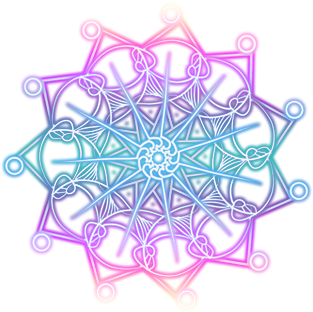
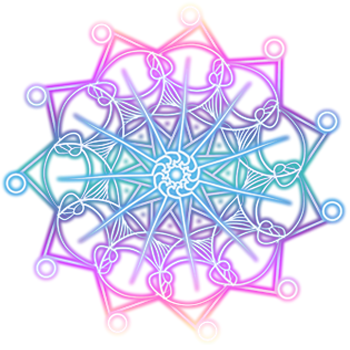
Various Changes
-Rescaled the Title screen to fit new resolution.
-Added title buttons.
-Fixed dialogue on intro and initial cutscene to better fit the new
resolution.
-Rescaled all the lighting effects to fit the new resolution of game.

diff --git a/js/plugins.js b/js/plugins.js
@@ -9,7 +9,7 @@ var $plugins =
 {"name":"YEP_DisableAutoShadowExt","status":true,"description":"v1.00 Disable autoshadows for your game, specific maps, or even\nspecific tilesets.","parameters":{"DefaultShowShadows":"true"}},
 {"name":"YEP_SaveCore","status":true,"description":"v1.06 Alter the save menu for a more aesthetic layout\nand take control over the file system's rules.","parameters":{"---General---":"","Max Files":"10","Saved Icon":"231","Empty Icon":"230","Return After Saving":"false","Auto New Index":"true","---Action Window---":"","Load Command":"Load","Save Command":"Save","Delete Command":"Delete","---Help Window---":"","Select Help":"Please select a file slot.","Load Help":"Loads the data from the saved game.","Save Help":"Saves the current progress in your game.","Delete Help":"Deletes all data from this save file.","---Delete---":"","Delete Filename":"Damage2","Delete Volume":"100","Delete Pitch":"150","Delete Pan":"0","---Info Window---":"","Show Game Title":"true","Invalid Game Text":"This save is for a different game.","Empty Game Text":"Empty","Map Display Name":"true","Party Display":"2","Party Y Position":"this.lineHeight() + Window_Base._faceHeight","Show Actor Names":"true","Name Font Size":"20","Show Actor Level":"true","Level Font Size":"20","Level Format":"\\c[16]%1 \\c[0]%3","Data Font Size":"20","Data Column 1":"empty, playtime, save count, gold count","Data Column 2":"location, variable 1, variable 2, variable 3","Data Column 3":"empty, variable 4, variable 5, variable 6","Data Column 4":"","---Vocabulary---":"","Map Location":"","Playtime":"Playtime:","Save Count":"Total Saves:","Gold Count":"%1:","---Technical---":"","Save Mode":"auto","Local Config":"config.rpgsave","Local Global":"global.rpgsave","Local Save":"file%1.rpgsave","Web Config":"RPG %1 Config","Web Global":"RPG %1 Global","Web Save":"RPG %1 File%2","---Confirmation---":"","Load Confirmation":"true","Load Text":"Do you wish to load this save file?","Save Confirmation":"true","Save Text":"Do you wish to overwrite this save file?","Delete Confirmation":"true","Delete Text":"Do you wish to delete this save file?","Confirm Yes":"Yes","Confirm No":"No"}},
 {"name":"YEP_X_Autosave","status":true,"description":"v1.00 (Req YEP_SaveCore.js) Adds Autosave functionality to your\nRPG Maker game.","parameters":{"---Automatic---":"","OnMapLoad":"true","OnMainMenu":"false","---Option Menu---":"","Show Option":"true","Option Name":"Autosave","Default":"true","---Visual---":"","ShowAutosave":"true","AutosaveMsgSave":"\\i[83]Autosave Complete!","AutosaveMsgLoad":"\\i[83]Autosave Loaded!","MsgGradient1":"rgba(0, 0, 0, 0)","MsgGradient2":"rgba(0, 0, 0, 0.6)","MsgGradientCode":"\"var textWidth = this.textWidthEx(this.message());\\nvar half = this.textPadding() + Math.ceil(textWidth / 2);\\nvar height = this.lineHeight();\\nvar color1 = Yanfly.Param.AutosaveMsgColor1;\\nvar color2 = Yanfly.Param.AutosaveMsgColor2;\\nthis.contents.gradientFillRect(0, 0, half, height, color1, color2);\\nthis.contents.gradientFillRect(half, 0, this.width - half, height, color2, color1);\"","MsgX":"Graphics.boxWidth - 270","MsgY":"Graphics.boxHeight - this.fittingHeight(1) * 2","MsgDuration":"120","FadeSpeed":"16"}},
-{"name":"TerraxLighting","status":true,"description":"v1.2.9 Creates an extra layer that darkens a map and adds lightsources!","parameters":{"Player radius":"300","Reset Lights":"No","Save DaynightHours":"5","Save DaynightMinutes":"6","Save DaynightSeconds":"7","Flashlight offset":"0","Screensize X":"816","Screensize Y":"624","Kill Switch":"No"}},
+{"name":"TerraxLighting","status":true,"description":"v1.2.9 Creates an extra layer that darkens a map and adds lightsources!","parameters":{"Player radius":"300","Reset Lights":"No","Save DaynightHours":"5","Save DaynightMinutes":"6","Save DaynightSeconds":"7","Flashlight offset":"0","Screensize X":"1280","Screensize Y":"720","Kill Switch":"No"}},
 {"name":"AABSE_ParticleSystem","status":false,"description":"Particle System for Alpha ABS","parameters":{}},
 {"name":"Cavefog","status":true,"description":"display fogs as XP fog","parameters":{}},
 {"name":"VPS - Dynamic Weather System","status":true,"description":"v1.0 An extended weather system for RMMV with different effects and behaviors.","parameters":{"- WEATHER CUSTOMIZATION -":"","AutumnLeafSpeedX":"0","AutumnLeafSpeedY":"1","AutumnLeafOpacity":"1","SakuraSpeedX":"0","SakuraSpeedY":"1","SakuraOpacity":"1","BlowingSakuraSpeedX":"3","BlowingSakuraSpeedY":"3","BlowingSakuraOpacity":"1","CloverSpeedX":"0","CloverSpeedY":"1","CloverOpacity":"1","BlowingCloverSpeedX":"3","BlowingCloverSpeedY":"0","BlowingCloverOpacity":"1","BlowingAutumnSpeedX":"10","BlowingAutumnSpeedY":"0","BlowingAutumnOpacity":"1","-STORM CONTROL-":"","LightningDuration":"300000","LightningCounter":"10","ThunderclapAudio":"Thunder1","ThunderclapVolume":"100","ThunderclapPitch":"100","ThunderclapPan":"0","-WEATHER RESOURCES-":"","SnowballImage":"snowball","FlakeImage":"flake","BlizzardImage":"blizzard","IceImage":"ice","GlitterImage":"glitter","FireImage":"fire","LightImage":"light","MeteorImage":"meteor","LeafBladeImage":"leafblade","PollenImage":"pollen","FairydustImage":"fairydust","LeafImage":"leaf","AutumnLeafImage":"autumnleaf","SpringLeafImage":"springleaf","CloverImage":"clover","SakuraImage":"sakura","BubbleImage":"bubble","WingImage":"wing","WaterImage":"water"}},
@@ -29,9 +29,9 @@ var $plugins =
 {"name":"YEP_SlipperyTiles","status":true,"description":"v1.05 You can create slippery tiles by marking them with\neither a terrain tag or a region number.","parameters":{"Slippery Frame":"2","Slippery Region":"1","Slippery Speed":"0"}},
 {"name":"MOG_TitleHimawari","status":false,"description":"(v1.0) Cena de titulo animado com personagens.","parameters":{"Char Number":"4","Char X-Axis":"0","Char Y-Axis":"0","Flower X-Axis":"0","Flower Y-Axis":"0","Rotation":"true","Rotation Time":"300"}},
 {"name":"MOG_TitleLayers","status":true,"description":"(v1.1 *) Adiciona multiplas camadas na tela de título.","parameters":{"-> Main <<<<<<<<<<<<<<<<<<<<<<<":"","Screen Movement":"false","Screen Move Speed":"1","Screen Move Duration":"160","":"","-> Layer 1 <<<<<<<<<<<<<<<<<<<<<<<":"","L1 Visible":"true","L1 File Name":"Layer1","L1 X-axis / Scroll":"0","L1 Y-axis / Scroll":"0","L1 Blend Mode":"0","L1 Transition Time":"0","L1 Animated":"true","L1 Frames":"1","L1 Animation Speed":"20","-> Layer 2 <<<<<<<<<<<<<<<<<<<<<<<":"","L2 Visible":"false","L2 File Name":"Layer2","L2 X-axis / Scroll":"0.5","L2 Y-axis / Scroll":"0","L2 Blend Mode":"0","L2 Transition Time":"0","L2 Animated":"false","L2 Frames":"4","L2 Animation Speed":"20","-> Layer 3 <<<<<<<<<<<<<<<<<<<<<<<":"","L3 Visible":"true","L3 File Name":"Layer3","L3 X-axis / Scroll":"0","L3 Y-axis / Scroll":"0","L3 Blend Mode":"0","L3 Transition Time":"0.01","L3 Animated":"false","L3 Frames":"4","L3 Animation Speed":"20","-> Layer 4 <<<<<<<<<<<<<<<<<<<<<<<":"","L4 Visible":"true","L4 File Name":"Layer4","L4 X-axis / Scroll":"0","L4 Y-axis / Scroll":"0","L4 Blend Mode":"0","L4 Transition Time":"0.2","L4 Animated":"false","L4 Frames":"4","L4 Animation Speed":"20","-> Layer 5 <<<<<<<<<<<<<<<<<<<<<<<":"","L5 Visible":"false","L5 File Name":"Layer5","L5 X-axis / Scroll":"1.1","L5 Y-axis / Scroll":"0","L5 Blend Mode":"0","L5 Transition Time":"0","L5 Animated":"false","L5 Frames":"4","L5 Animation Speed":"20","-> Layer 6 <<<<<<<<<<<<<<<<<<<<<<<":"","L6 Visible":"false","L6 File Name":"Layer6","L6 X-axis / Scroll":"1.3","L6 Y-axis / Scroll":"0","L6 Blend Mode":"0","L6 Transition Time":"0","L6 Animated":"false","L6 Frames":"4","L6 Animation Speed":"20","-> Layer 7 <<<<<<<<<<<<<<<<<<<<<<<":"","L7 Visible":"false","L7 File Name":"Layer7","L7 X-axis / Scroll":"1.5","L7 Y-axis / Scroll":"0","L7 Blend Mode":"0","L7 Transition Time":"0","L7 Animated":"false","L7 Frames":"4","L7 Animation Speed":"20","-> Layer 8 <<<<<<<<<<<<<<<<<<<<<<<":"","L8 Visible":"false","L8 File Name":"Layer8","L8 X-axis / Scroll":"1.7","L8 Y-axis / Scroll":"0","L8 Blend Mode":"0","L8 Transition Time":"0","L8 Animated":"false","L8 Frames":"4","L8 Animation Speed":"20","-> Layer 9 <<<<<<<<<<<<<<<<<<<<<<<":"","L9 Visible":"false","L9 File Name":"Layer9","L9 X-axis / Scroll":"1.9","L9 Y-axis / Scroll":"0","L9 Blend Mode":"0","L9 Transition Time":"0","L9 Animated":"false","L9 Frames":"4","L9 Animation Speed":"20","-> Layer 10 <<<<<<<<<<<<<<<<<<<<<<<":"","L10 Visible":"false","L10 File Name":"Layer10","L10 X-axis / Scroll":"2.1","L10 Y-axis / Scroll":"0","L10 Blend Mode":"0","L10 Transition Time":"0","L10 Animated":"false","L10 Frames":"4","L10 Animation Speed":"20"}},
-{"name":"MOG_TitleMagicCircles","status":true,"description":"(v1.1 *) Adiciona círculos mágicos na tela de título.","parameters":{"-> Magic Circle 1 <<<<<<<<<<<<<<<<<<<<<<<":"","Circle 1 Visible":"true","Circle 1 File Name":"MCircle2","Circle 1 Z-Index":"10","Circle 1 X-Axis":"820","Circle 1 Y-Axis":"680","Circle 1 Rotation":"0.01","Circle 1 Blend Mode":"1","Circle 1 Transition Time":"0","Circle 1 Pulse Mode":"2","":"","-> Magic Circle 2 <<<<<<<<<<<<<<<<<<<<<<<":"","Circle 2 Visible":"false","Circle 2 File Name":"MCircle2","Circle 2 Z-Index":"11","Circle 2 X-Axis":"790","Circle 2 Y-Axis":"650","Circle 2 Rotation":"-0.01","Circle 2 Blend Mode":"0","Circle 2 Transition Time":"0","Circle 2 Pulse Mode":"0","-> Magic Circle 3 <<<<<<<<<<<<<<<<<<<<<<<":"","Circle 3 Visible":"true","Circle 3 File Name":"MCircle3","Circle 3 Z-Index":"12","Circle 3 X-Axis":"820","Circle 3 Y-Axis":"680","Circle 3 Rotation":"0.01","Circle 3 Blend Mode":"1","Circle 3 Transition Time":"0","Circle 3 Pulse Mode":"0","-> Magic Circle 4 <<<<<<<<<<<<<<<<<<<<<<<":"","Circle 4 Visible":"true","Circle 4 File Name":"MCircle4","Circle 4 Z-Index":"12","Circle 4 X-Axis":"410","Circle 4 Y-Axis":"155","Circle 4 Rotation":"0.01","Circle 4 Blend Mode":"1","Circle 4 Transition Time":"50","Circle 4 Pulse Mode":"0","-> Magic Circle 5 <<<<<<<<<<<<<<<<<<<<<<<":"","Circle 5 Visible":"false","Circle 5 File Name":"MCircle5","Circle 5 Z-Index":"14","Circle 5 X-Axis":"400","Circle 5 Y-Axis":"400","Circle 5 Rotation":"0.01","Circle 5 Blend Mode":"1","Circle 5 Transition Time":"0","Circle 5 Pulse Mode":"0","-> Magic Circle 6 <<<<<<<<<<<<<<<<<<<<<<<":"","Circle 6 Visible":"false","Circle 6 File Name":"MCircle6","Circle 6 Z-Index":"15","Circle 6 X-Axis":"500","Circle 6 Y-Axis":"500","Circle 6 Rotation":"0.01","Circle 6 Blend Mode":"1","Circle 6 Transition Time":"0","Circle 6 Pulse Mode":"0","-> Magic Circle 7 <<<<<<<<<<<<<<<<<<<<<<<":"","Circle 7 Visible":"false","Circle 7 File Name":"MCircle7","Circle 7 Z-Index":"16","Circle 7 X-Axis":"550","Circle 7 Y-Axis":"550","Circle 7 Rotation":"0.01","Circle 7 Blend Mode":"1","Circle 7 Transition Time":"0","Circle 7 Pulse Mode":"0","-> Magic Circle 8 <<<<<<<<<<<<<<<<<<<<<<<":"","Circle 8 Visible":"false","Circle 8 File Name":"MCircle8","Circle 8 Z-Index":"17","Circle 8 X-Axis":"600","Circle 8 Y-Axis":"600","Circle 8 Rotation":"0.01","Circle 8 Blend Mode":"1","Circle 8 Transition Time":"0","Circle 8 Pulse Mode":"0","-> Magic Circle 9 <<<<<<<<<<<<<<<<<<<<<<<":"","Circle 9 Visible":"false","Circle 9 File Name":"MCircle9","Circle 9 Z-Index":"18","Circle 9 X-Axis":"620","Circle 9 Y-Axis":"620","Circle 9 Rotation":"0.01","Circle 9 Blend Mode":"1","Circle 9 Transition Time":"0","Circle 9 Pulse Mode":"0","-> Magic Circle 10 <<<<<<<<<<<<<<<<<<<<<<<":"","Circle 10 Visible":"false","Circle 10 File Name":"MCircle10","Circle 10 Z-Index":"19","Circle 10 X-Axis":"650","Circle 10 Y-Axis":"600","Circle 10 Rotation":"0.01","Circle 10 Blend Mode":"1","Circle 10 Transition Time":"0","Circle 10 Pulse Mode":"0"}},
-{"name":"MOG_TitleParticles","status":true,"description":"(v2.1 *) Adiciona partículas na tela de título.","parameters":{"-> Particles 1 <<<<<<<<<<<<<<<<<<<<<<<":"","P1 Visible":"true","P1 File Name":"Particles","P1 Amount":"25","P1 Z Index":"20","P1 X Speed":"-10","P1 Y Speed":"-1","P1 Rotation Speed":"0.02","P1 Blend Mode":"1","P1 Anchor":"0","P1 Leaf Mode":"false","P1 Transition Time":"0","":"","-> Particles 2 <<<<<<<<<<<<<<<<<<<<<<<":"","P2 Visible":"true","P2 File Name":"Particles2","P2 Amount":"5","P2 Z Index":"21","P2 X Speed":"2","P2 Y Speed":"2","P2 Rotation Speed":"0.01","P2 Blend Mode":"0","P2 Anchor":"0","P2 Leaf Mode":"false","P2 Transition Time":"0","-> Particles 3 <<<<<<<<<<<<<<<<<<<<<<<":"","P3 Visible":"true","P3 File Name":"Particles3","P3 Amount":"10","P3 Z Index":"22","P3 X Speed":"0.5","P3 Y Speed":"0.5","P3 Rotation Speed":"0.006","P3 Blend Mode":"0","P3 Anchor":"0","P3 Leaf Mode":"true","P3 Transition Time":"0","-> Particles 4 <<<<<<<<<<<<<<<<<<<<<<<":"","P4 Visible":"false","P4 File Name":"Particles4","P4 Amount":"25","P4 Z Index":"23","P4 X Speed":"2","P4 Y Speed":"0.3","P4 Rotation Speed":"0.3","P4 Blend Mode":"1","P4 Anchor":"0","P4 Leaf Mode":"true","P4 Transition Time":"0","-> Particles 5 <<<<<<<<<<<<<<<<<<<<<<<":"","P5 Visible":"false","P5 File Name":"Particles5","P5 Amount":"25","P5 Z Index":"24","P5 X Speed":"4","P5 Y Speed":"0","P5 Rotation Speed":"0","P5 Blend Mode":"1","P5 Anchor":"0","P5 Leaf Mode":"false","P5 Transition Time":"0","-> Particles 6 <<<<<<<<<<<<<<<<<<<<<<<":"","P6 Visible":"false","P6 File Name":"Particles6","P6 Amount":"25","P6 Z Index":"25","P6 X Speed":"4","P6 Y Speed":"0","P6 Rotation Speed":"0","P6 Blend Mode":"1","P6 Anchor":"0","P6 Leaf Mode":"false","P6 Transition Time":"0"}},
-{"name":"MOG_TitlePictureCom","status":true,"description":"(v1.6 *) Adiciona comandos em imagens no lugar da janela.","parameters":{"-> Main <<<<<<<<<<<<<<<<<<<<<<<":"","Animation Mode":"2","Left & Right Input":"true","Com Fade-In Duration":"13","Slide X-Axis":"-100","Slide Y-Axis":"0","":"","-> Smart Background  <<<<<<<<<<<<<<<<<<<<<<<":"","Smart Background":"true","Background X-Axis":"0","Background Y-Axis":"0","Background Fade-In Duration":"90","-> Title Sprite <<<<<<<<<<<<<<<<<<<<<<<":"","Title Sprite":"true","Title Sprite X-Axis":"410","Title Sprite Y-Axis":"300","Fade-In Duration":"40","Zoom Effect":"true","Zoom Speed":"40","-> Cursor <<<<<<<<<<<<<<<<<<<<<<<":"","Cursor X-Axis":"0","Cursor Y-Axis":"18","Cursor Visible":"true","Cursor Wave Animation":"true","Cursor Rotation Animation":"false","Cursor Rotation Speed":"0.05","-> Commands <<<<<<<<<<<<<<<<<<<<<<<":"","Command Pos 1":"50,450","Command Pos 2":"50,490","Command Pos 3":"50,530","Command Pos 4":"670,550","Command Pos 5":"50 500","Command Pos 6":"345,530","Command Pos 7":"0,192","Command Pos 8":"0,224","Command Pos 9":"0,256","Command Pos 10":"0,288"}},
+{"name":"MOG_TitleMagicCircles","status":true,"description":"(v1.1 *) Adiciona círculos mágicos na tela de título.","parameters":{"-> Magic Circle 1 <<<<<<<<<<<<<<<<<<<<<<<":"","Circle 1 Visible":"true","Circle 1 File Name":"MCircle2","Circle 1 Z-Index":"10","Circle 1 X-Axis":"1200","Circle 1 Y-Axis":"720","Circle 1 Rotation":"0.01","Circle 1 Blend Mode":"1","Circle 1 Transition Time":"0","Circle 1 Pulse Mode":"2","":"","-> Magic Circle 2 <<<<<<<<<<<<<<<<<<<<<<<":"","Circle 2 Visible":"false","Circle 2 File Name":"MCircle2","Circle 2 Z-Index":"11","Circle 2 X-Axis":"790","Circle 2 Y-Axis":"650","Circle 2 Rotation":"-0.01","Circle 2 Blend Mode":"0","Circle 2 Transition Time":"0","Circle 2 Pulse Mode":"0","-> Magic Circle 3 <<<<<<<<<<<<<<<<<<<<<<<":"","Circle 3 Visible":"true","Circle 3 File Name":"MCircle3","Circle 3 Z-Index":"12","Circle 3 X-Axis":"1200","Circle 3 Y-Axis":"720","Circle 3 Rotation":"0.01","Circle 3 Blend Mode":"1","Circle 3 Transition Time":"0","Circle 3 Pulse Mode":"0","-> Magic Circle 4 <<<<<<<<<<<<<<<<<<<<<<<":"","Circle 4 Visible":"true","Circle 4 File Name":"MCircle4","Circle 4 Z-Index":"12","Circle 4 X-Axis":"670","Circle 4 Y-Axis":"170","Circle 4 Rotation":"0.01","Circle 4 Blend Mode":"1","Circle 4 Transition Time":"50","Circle 4 Pulse Mode":"0","-> Magic Circle 5 <<<<<<<<<<<<<<<<<<<<<<<":"","Circle 5 Visible":"false","Circle 5 File Name":"MCircle5","Circle 5 Z-Index":"14","Circle 5 X-Axis":"400","Circle 5 Y-Axis":"400","Circle 5 Rotation":"0.01","Circle 5 Blend Mode":"1","Circle 5 Transition Time":"0","Circle 5 Pulse Mode":"0","-> Magic Circle 6 <<<<<<<<<<<<<<<<<<<<<<<":"","Circle 6 Visible":"false","Circle 6 File Name":"MCircle6","Circle 6 Z-Index":"15","Circle 6 X-Axis":"500","Circle 6 Y-Axis":"500","Circle 6 Rotation":"0.01","Circle 6 Blend Mode":"1","Circle 6 Transition Time":"0","Circle 6 Pulse Mode":"0","-> Magic Circle 7 <<<<<<<<<<<<<<<<<<<<<<<":"","Circle 7 Visible":"false","Circle 7 File Name":"MCircle7","Circle 7 Z-Index":"16","Circle 7 X-Axis":"550","Circle 7 Y-Axis":"550","Circle 7 Rotation":"0.01","Circle 7 Blend Mode":"1","Circle 7 Transition Time":"0","Circle 7 Pulse Mode":"0","-> Magic Circle 8 <<<<<<<<<<<<<<<<<<<<<<<":"","Circle 8 Visible":"false","Circle 8 File Name":"MCircle8","Circle 8 Z-Index":"17","Circle 8 X-Axis":"600","Circle 8 Y-Axis":"600","Circle 8 Rotation":"0.01","Circle 8 Blend Mode":"1","Circle 8 Transition Time":"0","Circle 8 Pulse Mode":"0","-> Magic Circle 9 <<<<<<<<<<<<<<<<<<<<<<<":"","Circle 9 Visible":"false","Circle 9 File Name":"MCircle9","Circle 9 Z-Index":"18","Circle 9 X-Axis":"620","Circle 9 Y-Axis":"620","Circle 9 Rotation":"0.01","Circle 9 Blend Mode":"1","Circle 9 Transition Time":"0","Circle 9 Pulse Mode":"0","-> Magic Circle 10 <<<<<<<<<<<<<<<<<<<<<<<":"","Circle 10 Visible":"false","Circle 10 File Name":"MCircle10","Circle 10 Z-Index":"19","Circle 10 X-Axis":"650","Circle 10 Y-Axis":"600","Circle 10 Rotation":"0.01","Circle 10 Blend Mode":"1","Circle 10 Transition Time":"0","Circle 10 Pulse Mode":"0"}},
+{"name":"MOG_TitleParticles","status":true,"description":"(v2.1 *) Adiciona partículas na tela de título.","parameters":{"-> Particles 1 <<<<<<<<<<<<<<<<<<<<<<<":"","P1 Visible":"true","P1 File Name":"Particles","P1 Amount":"50","P1 Z Index":"20","P1 X Speed":"-10","P1 Y Speed":"-1","P1 Rotation Speed":"0.02","P1 Blend Mode":"1","P1 Anchor":"0","P1 Leaf Mode":"false","P1 Transition Time":"0","":"","-> Particles 2 <<<<<<<<<<<<<<<<<<<<<<<":"","P2 Visible":"true","P2 File Name":"Particles2","P2 Amount":"15","P2 Z Index":"21","P2 X Speed":"2","P2 Y Speed":"2","P2 Rotation Speed":"0.01","P2 Blend Mode":"0","P2 Anchor":"0","P2 Leaf Mode":"false","P2 Transition Time":"0","-> Particles 3 <<<<<<<<<<<<<<<<<<<<<<<":"","P3 Visible":"true","P3 File Name":"Particles3","P3 Amount":"25","P3 Z Index":"22","P3 X Speed":"0.5","P3 Y Speed":"0.5","P3 Rotation Speed":"0.006","P3 Blend Mode":"0","P3 Anchor":"0","P3 Leaf Mode":"true","P3 Transition Time":"0","-> Particles 4 <<<<<<<<<<<<<<<<<<<<<<<":"","P4 Visible":"false","P4 File Name":"Particles4","P4 Amount":"25","P4 Z Index":"23","P4 X Speed":"2","P4 Y Speed":"0.3","P4 Rotation Speed":"0.3","P4 Blend Mode":"1","P4 Anchor":"0","P4 Leaf Mode":"true","P4 Transition Time":"0","-> Particles 5 <<<<<<<<<<<<<<<<<<<<<<<":"","P5 Visible":"false","P5 File Name":"Particles5","P5 Amount":"25","P5 Z Index":"24","P5 X Speed":"4","P5 Y Speed":"0","P5 Rotation Speed":"0","P5 Blend Mode":"1","P5 Anchor":"0","P5 Leaf Mode":"false","P5 Transition Time":"0","-> Particles 6 <<<<<<<<<<<<<<<<<<<<<<<":"","P6 Visible":"false","P6 File Name":"Particles6","P6 Amount":"25","P6 Z Index":"25","P6 X Speed":"4","P6 Y Speed":"0","P6 Rotation Speed":"0","P6 Blend Mode":"1","P6 Anchor":"0","P6 Leaf Mode":"false","P6 Transition Time":"0"}},
+{"name":"MOG_TitlePictureCom","status":true,"description":"(v1.6 *) Adiciona comandos em imagens no lugar da janela.","parameters":{"-> Main <<<<<<<<<<<<<<<<<<<<<<<":"","Animation Mode":"2","Left & Right Input":"true","Com Fade-In Duration":"13","Slide X-Axis":"-100","Slide Y-Axis":"0","":"","-> Smart Background  <<<<<<<<<<<<<<<<<<<<<<<":"","Smart Background":"true","Background X-Axis":"0","Background Y-Axis":"0","Background Fade-In Duration":"90","-> Title Sprite <<<<<<<<<<<<<<<<<<<<<<<":"","Title Sprite":"true","Title Sprite X-Axis":"640","Title Sprite Y-Axis":"360","Fade-In Duration":"40","Zoom Effect":"true","Zoom Speed":"40","-> Cursor <<<<<<<<<<<<<<<<<<<<<<<":"","Cursor X-Axis":"2","Cursor Y-Axis":"53","Cursor Visible":"true","Cursor Wave Animation":"true","Cursor Rotation Animation":"false","Cursor Rotation Speed":"0.05","-> Commands <<<<<<<<<<<<<<<<<<<<<<<":"","Command Pos 1":"60,440","Command Pos 2":"60,500","Command Pos 3":"60,570","Command Pos 4":"670,550","Command Pos 5":"50 500","Command Pos 6":"345,530","Command Pos 7":"0,192","Command Pos 8":"0,224","Command Pos 9":"0,256","Command Pos 10":"0,288"}},
 {"name":"MOG_TitleSplashScreen","status":true,"description":"(v1.1 *) Adiciona logos antes da tela de título.","parameters":{"Number of Logos":"1","Slash Duration":"60","Splash Fade Duration":"2","Full Screen Mode":"false"}},
 {"name":"YEP_RegionEvents","status":true,"description":"v1.03 Make it so that whenever players step on certain\r\nRegion ID's, the game will play certain common events.","parameters":{"---Regions 1 to 20---":"","Region 1":"0","Region 2":"0","Region 3":"0","Region 4":"0","Region 5":"0","Region 6":"0","Region 7":"0","Region 8":"0","Region 9":"0","Region 10":"0","Region 11":"0","Region 12":"0","Region 13":"0","Region 14":"0","Region 15":"0","Region 16":"0","Region 17":"0","Region 18":"0","Region 19":"0","Region 20":"0","---Regions 21 to 40---":"","Region 21":"14","Region 22":"15","Region 23":"0","Region 24":"0","Region 25":"0","Region 26":"0","Region 27":"0","Region 28":"0","Region 29":"0","Region 30":"0","Region 31":"0","Region 32":"0","Region 33":"0","Region 34":"0","Region 35":"0","Region 36":"0","Region 37":"0","Region 38":"0","Region 39":"0","Region 40":"0","---Regions 41 to 60---":"","Region 41":"0","Region 42":"0","Region 43":"0","Region 44":"0","Region 45":"0","Region 46":"0","Region 47":"0","Region 48":"0","Region 49":"0","Region 50":"0","Region 51":"0","Region 52":"0","Region 53":"0","Region 54":"0","Region 55":"0","Region 56":"0","Region 57":"0","Region 58":"0","Region 59":"0","Region 60":"0","---Regions 61 to 80---":"","Region 61":"0","Region 62":"0","Region 63":"0","Region 64":"0","Region 65":"0","Region 66":"0","Region 67":"0","Region 68":"0","Region 69":"0","Region 70":"0","Region 71":"0","Region 72":"0","Region 73":"0","Region 74":"0","Region 75":"0","Region 76":"0","Region 77":"0","Region 78":"0","Region 79":"0","Region 80":"0","---Regions 81 to 100---":"","Region 81":"0","Region 82":"0","Region 83":"0","Region 84":"0","Region 85":"0","Region 86":"0","Region 87":"0","Region 88":"0","Region 89":"0","Region 90":"0","Region 91":"0","Region 92":"0","Region 93":"0","Region 94":"0","Region 95":"0","Region 96":"0","Region 97":"0","Region 98":"0","Region 99":"0","Region 100":"0","---Regions 101 to 120---":"","Region 101":"0","Region 102":"0","Region 103":"0","Region 104":"0","Region 105":"0","Region 106":"0","Region 107":"0","Region 108":"0","Region 109":"0","Region 110":"0","Region 111":"0","Region 112":"0","Region 113":"0","Region 114":"0","Region 115":"0","Region 116":"0","Region 117":"0","Region 118":"0","Region 119":"0","Region 120":"0","---Regions 121 to 140---":"","Region 121":"0","Region 122":"0","Region 123":"0","Region 124":"0","Region 125":"0","Region 126":"0","Region 127":"0","Region 128":"0","Region 129":"0","Region 130":"0","Region 131":"0","Region 132":"0","Region 133":"0","Region 134":"0","Region 135":"0","Region 136":"0","Region 137":"0","Region 138":"0","Region 139":"0","Region 140":"0","---Regions 141 to 160---":"","Region 141":"0","Region 142":"0","Region 143":"0","Region 144":"0","Region 145":"0","Region 146":"0","Region 147":"0","Region 148":"0","Region 149":"0","Region 150":"0","Region 151":"0","Region 152":"0","Region 153":"0","Region 154":"0","Region 155":"0","Region 156":"0","Region 157":"0","Region 158":"0","Region 159":"0","Region 160":"0","---Regions 161 to 180---":"","Region 161":"0","Region 162":"0","Region 163":"0","Region 164":"0","Region 165":"0","Region 166":"0","Region 167":"0","Region 168":"0","Region 169":"0","Region 170":"0","Region 171":"0","Region 172":"0","Region 173":"0","Region 174":"0","Region 175":"0","Region 176":"0","Region 177":"0","Region 178":"0","Region 179":"0","Region 180":"0","---Regions 181 to 200---":"","Region 181":"0","Region 182":"0","Region 183":"0","Region 184":"0","Region 185":"0","Region 186":"0","Region 187":"0","Region 188":"0","Region 189":"0","Region 190":"0","Region 191":"0","Region 192":"0","Region 193":"0","Region 194":"0","Region 195":"0","Region 196":"0","Region 197":"0","Region 198":"0","Region 199":"0","Region 200":"0","---Regions 201 to 220---":"","Region 201":"0","Region 202":"0","Region 203":"0","Region 204":"0","Region 205":"0","Region 206":"0","Region 207":"0","Region 208":"0","Region 209":"0","Region 210":"0","Region 211":"0","Region 212":"0","Region 213":"0","Region 214":"0","Region 215":"0","Region 216":"0","Region 217":"0","Region 218":"0","Region 219":"0","Region 220":"0","---Regions 221 to 240---":"","Region 221":"0","Region 222":"0","Region 223":"0","Region 224":"0","Region 225":"0","Region 226":"0","Region 227":"0","Region 228":"0","Region 229":"0","Region 230":"0","Region 231":"0","Region 232":"0","Region 233":"0","Region 234":"0","Region 235":"0","Region 236":"0","Region 237":"0","Region 238":"0","Region 239":"0","Region 240":"0","---Regions 241 to 255---":"","Region 241":"0","Region 242":"0","Region 243":"0","Region 244":"0","Region 245":"0","Region 246":"0","Region 247":"0","Region 248":"0","Region 249":"0","Region 250":"0","Region 251":"0","Region 252":"0","Region 253":"0","Region 254":"0","Region 255":"0"}}
 ];
